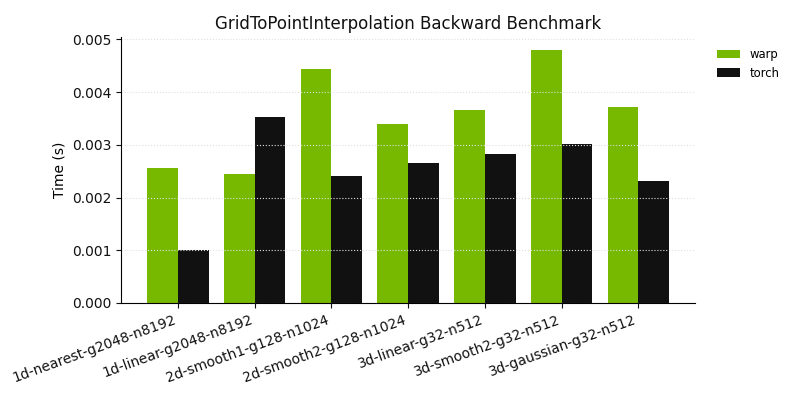
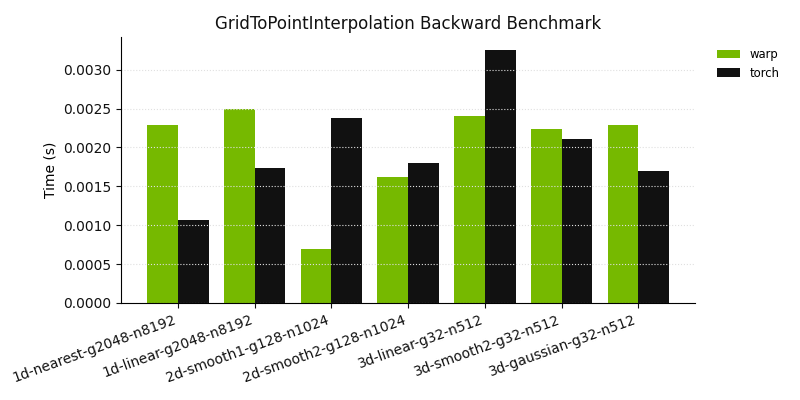
updating docs

diff --git a/docs/api/nn/functionals/geometry.rst b/docs/api/nn/functionals/geometry.rst
@@ -1,9 +1,6 @@
 Geometry Functionals
 ====================
 
-Visualization assets for this page are generated from
-``docs/_media/functionals/geometry/``.
-
 Mesh Poisson Disk Sample
 ------------------------
 
@@ -13,6 +10,8 @@ Mesh Poisson Disk Sample
 
 This visualization compares Poisson samples generated by ``dart_throwing`` and
 ``weighted_sample_elimination`` on the same Stanford Bunny surface mesh.
+Generation script:
+``docs/_media/functionals/geometry/mesh_poisson_disk_sample/generate.py``.
 
 .. figure:: /nn/functional/geometry/mesh_poisson_disk_sample/mesh_poisson_modes.png
    :alt: Mesh Poisson disk sampling mode comparison
@@ -31,6 +30,8 @@ Mesh To Voxel Fraction
 
 This visualization shows a side-by-side rotating view of the Stanford Bunny
 mesh and the occupied voxels inferred by ``mesh_to_voxel_fraction``.
+Generation script:
+``docs/_media/functionals/geometry/mesh_to_voxel_fraction/generate.py``.
 
 .. figure:: /nn/functional/geometry/mesh_to_voxel_fraction/mesh_to_voxel_rotation.gif
    :alt: Mesh to voxel fraction mesh and occupied-voxel rotation animation
@@ -47,6 +48,7 @@ This visualization shows signed-distance values on a 2D slice through the
 domain, with the zero level-set contour indicating the implicit surface. The
 animation shows a sweep plane through the mesh (left) and corresponding SDF
 slice image (right).
+Generation script: ``docs/_media/functionals/geometry/sdf/generate.py``.
 
 .. figure:: /nn/functional/geometry/sdf/sdf_slice_overview.png
    :alt: Signed distance field 2D slice visualization
